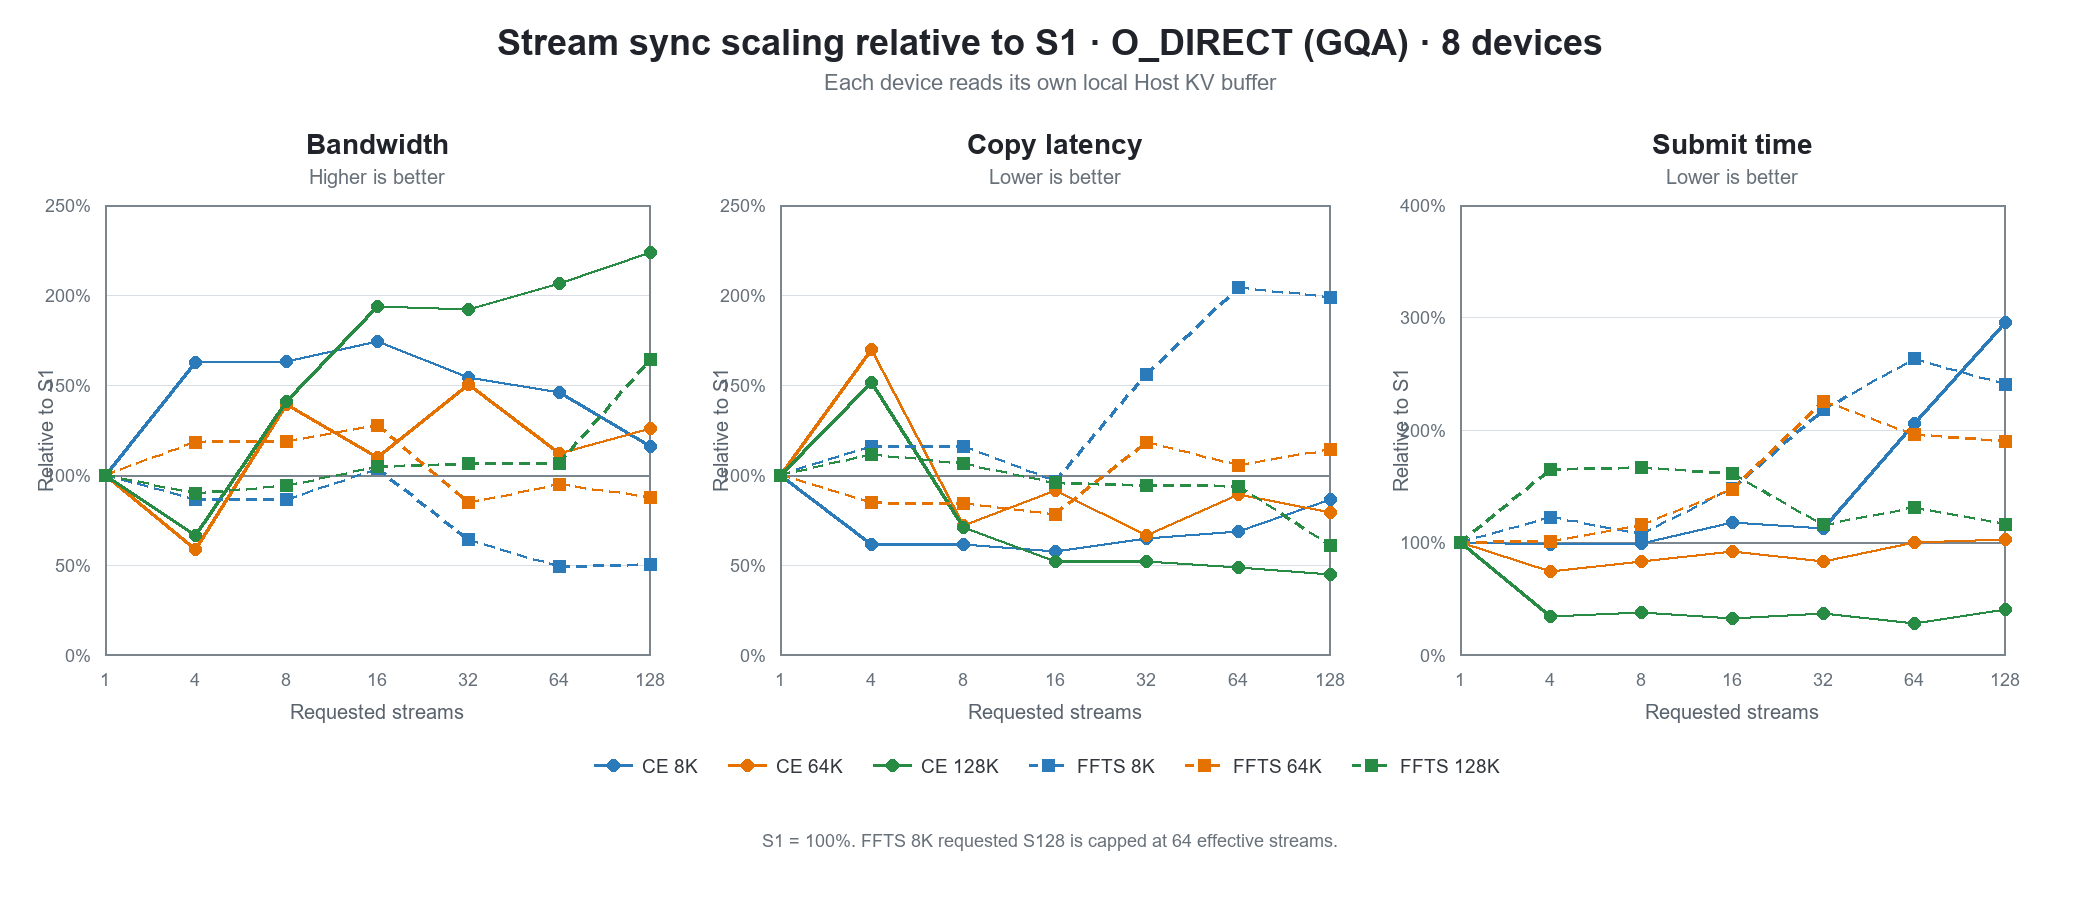
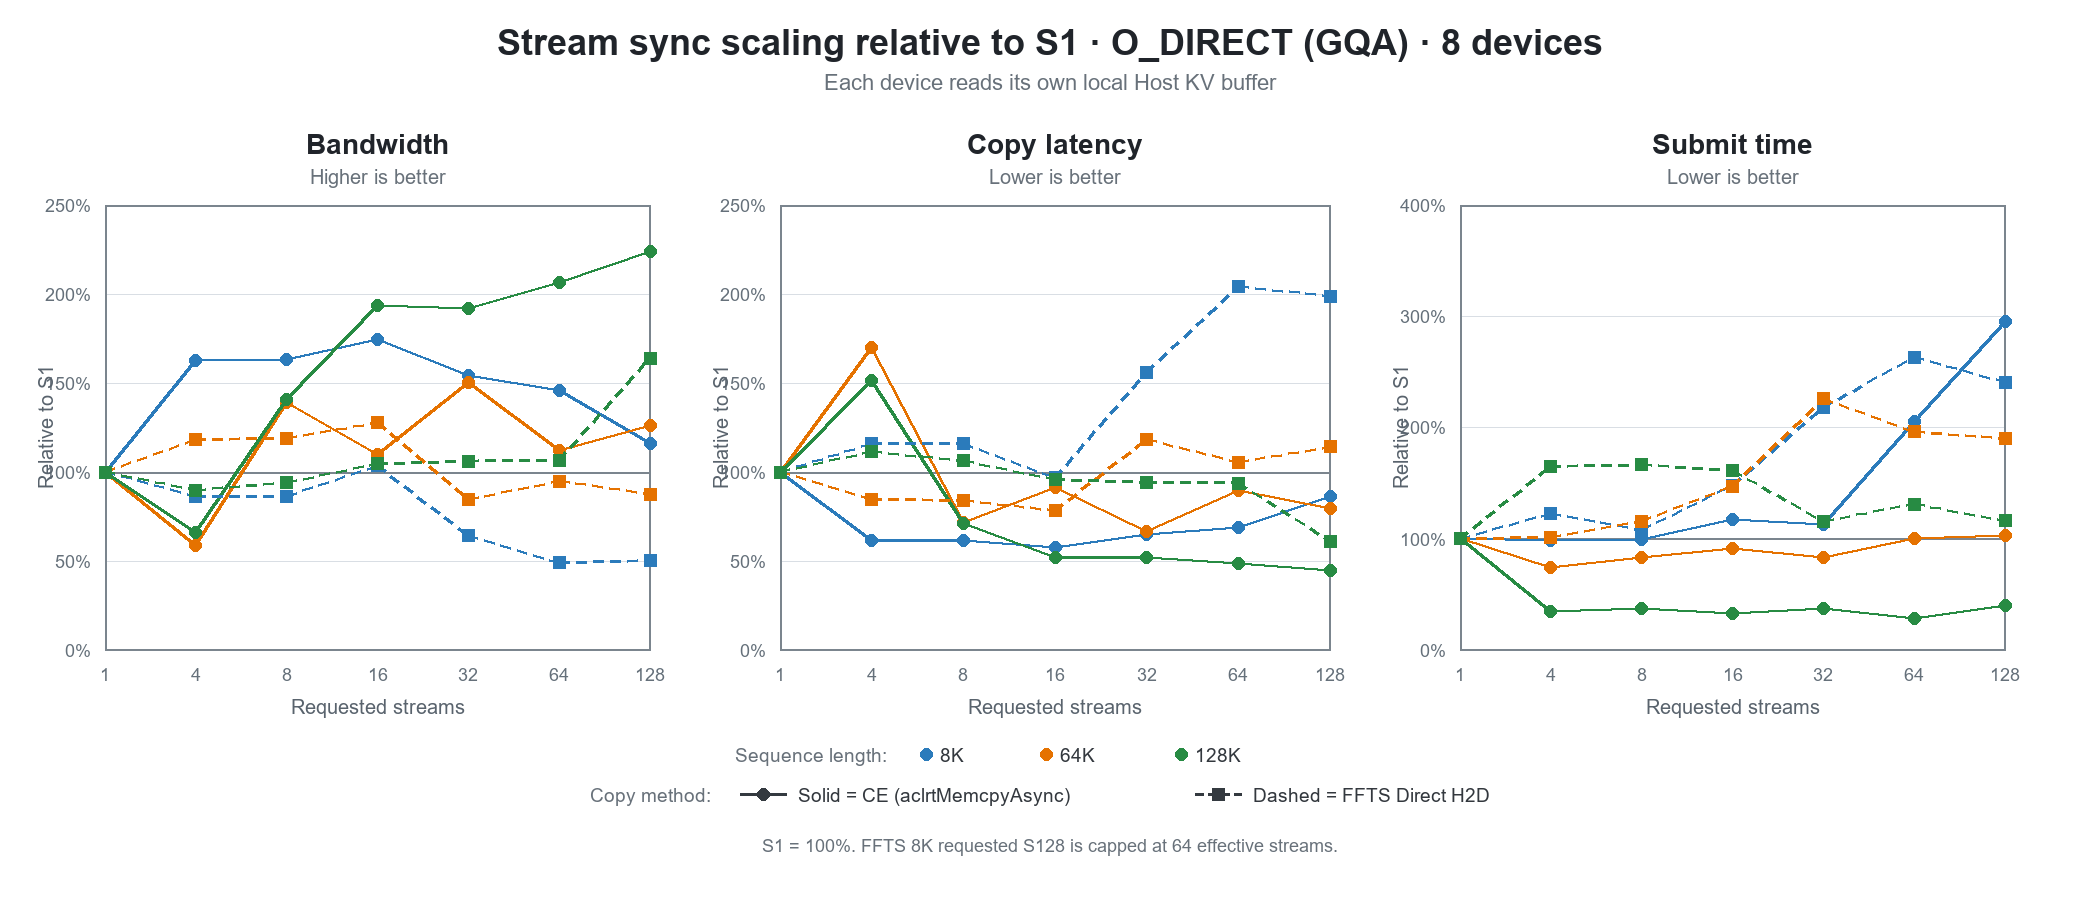
Clarify H2D chart legends

diff --git a/docs/source/developer-guide/ascend_h2d_glm5_io_stream_sweep_analysis.md b/docs/source/developer-guide/ascend_h2d_glm5_io_stream_sweep_analysis.md
@@ -30,6 +30,8 @@
 
 本节只展示归一化趋势和同步方式对比；带宽、Copy 时延和 Submit 下发时间的实际值统一保留在第 3、4 节完整数据表中。
 
+图例统一使用两组视觉编码：颜色区分序列长度；实线加圆点表示 CE（`aclrtMemcpyAsync`）拷贝，虚线加方点表示 FFTS Direct H2D。
+
 ### 2.1 Event 同步相对 S1 的总体趋势
 
 各组合先相对自身 S1 归一化，再按 Host 内存形态和设备数拆为 4 张图。每张图同时展示带宽、Copy 时延和 Submit 时间，适合分别观察不同内存形态和卡数下的 stream 拐点。
